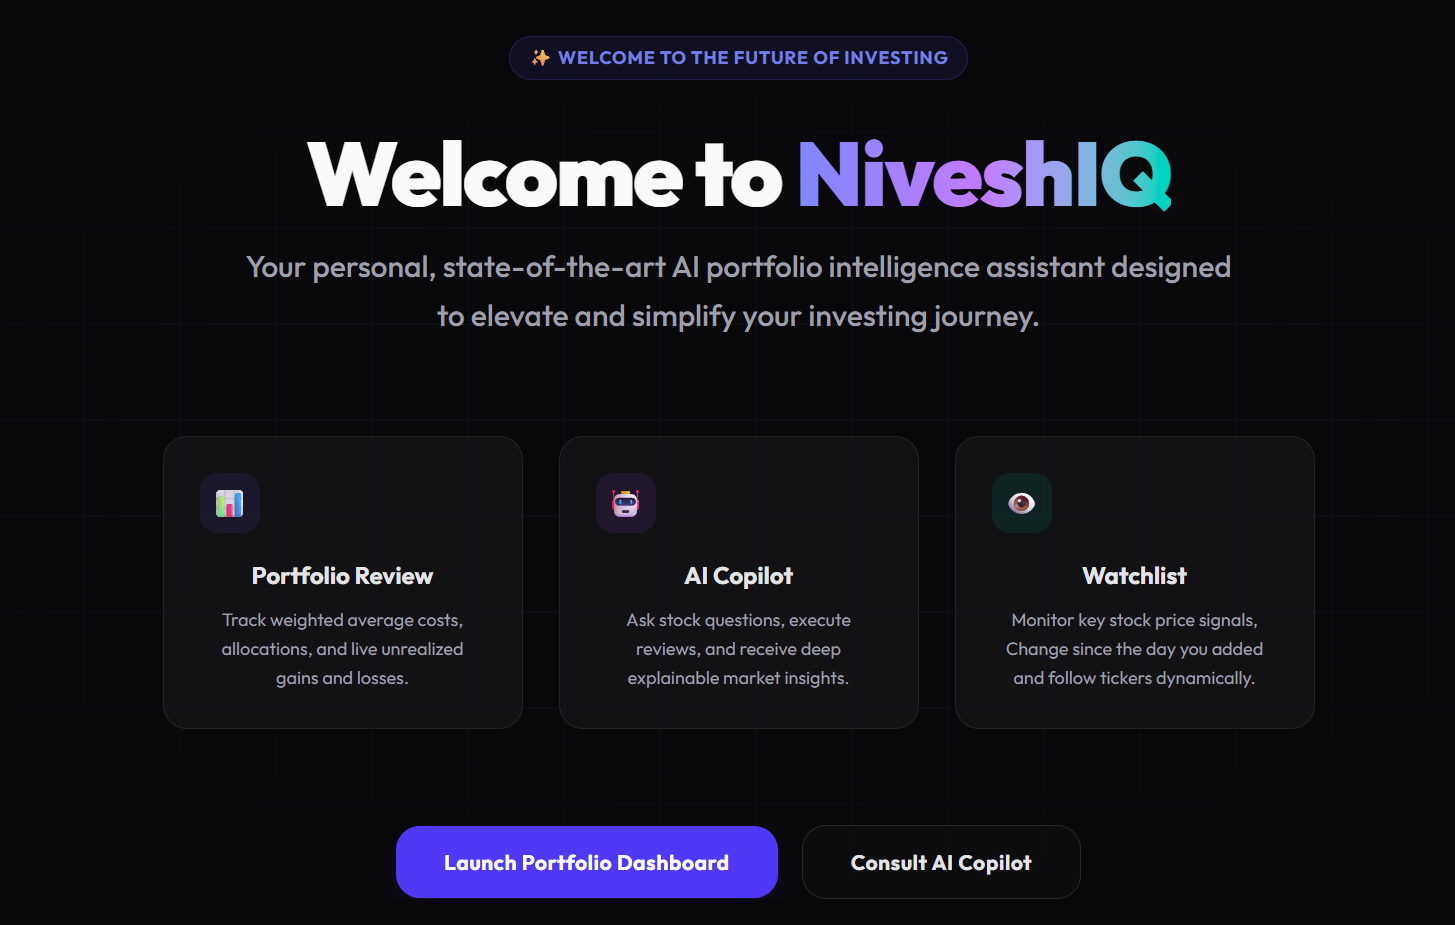
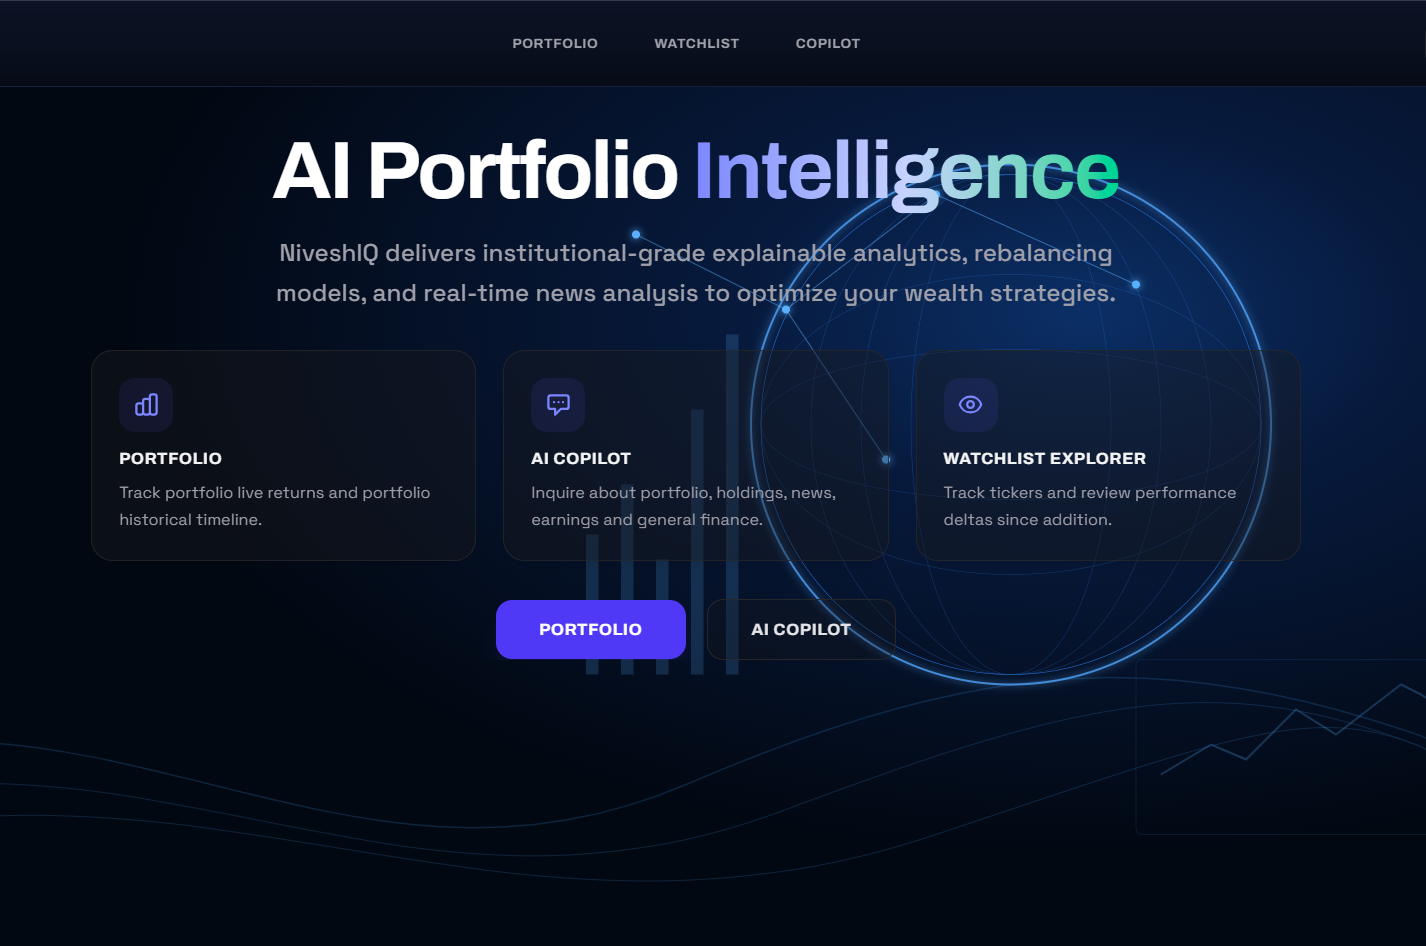
added profile pic and tags

diff --git a/style.css b/style.css
@@ -958,6 +958,51 @@ body.dark-mode .theme-toggle .moon-icon {
   margin: 0;
 }
 
+/* Pill-shaped glossy tags for project cards */
+.project-tags {
+  display: flex;
+  flex-wrap: wrap;
+  gap: 6px;
+  margin-top: 8px;
+}
+
+.project-tag {
+  font-family: var(--font-body);
+  font-size: 0.72rem;
+  font-weight: 600;
+  letter-spacing: 0.03em;
+  padding: 4px 12px;
+  border-radius: var(--radius-full);
+  background: linear-gradient(135deg, rgba(var(--color-accent-rgb), 0.1), rgba(var(--color-accent-rgb), 0.04));
+  border: 1px solid rgba(var(--color-accent-rgb), 0.18);
+  color: var(--color-accent);
+  transition: all var(--transition-fast);
+  position: relative;
+  overflow: hidden;
+}
+
+.project-tag::before {
+  content: '';
+  position: absolute;
+  top: 0;
+  left: 0;
+  right: 0;
+  height: 50%;
+  background: linear-gradient(180deg, rgba(255, 255, 255, 0.3), transparent);
+  pointer-events: none;
+  border-radius: var(--radius-full) var(--radius-full) 0 0;
+}
+
+body.dark-mode .project-tag::before {
+  background: linear-gradient(180deg, rgba(255, 255, 255, 0.06), transparent);
+}
+
+.project-tag:hover {
+  background: linear-gradient(135deg, rgba(var(--color-accent-rgb), 0.18), rgba(var(--color-accent-rgb), 0.08));
+  border-color: rgba(var(--color-accent-rgb), 0.35);
+  transform: translateY(-1px);
+}
+
 /* 
 ================================================================================
   ABOUT / PHILOSOPHY & EXPERTISE / SKILLS GRID
@@ -969,11 +1014,50 @@ body.dark-mode .theme-toggle .moon-icon {
   grid-template-columns: 0.9fr 1.1fr;
   gap: var(--space-3xl);
   align-items: flex-start;
+  margin-top: var(--space-xl);
 }
 
 .about-bio-column {
-  position: sticky;
-  top: 120px;
+  display: flex;
+  flex-direction: column;
+  justify-content: center;
+}
+
+.about-image-column {
+  display: flex;
+  align-items: center;
+  justify-content: center;
+}
+
+.profile-image-wrapper {
+  width: 100%;
+  max-width: 320px;
+  aspect-ratio: 1;
+  border-radius: var(--radius-xl);
+  background: var(--color-card-bg);
+  border: 1px solid var(--color-border);
+  display: flex;
+  align-items: center;
+  justify-content: center;
+  overflow: hidden;
+  transition: transform var(--transition-normal), box-shadow var(--transition-normal);
+}
+
+.profile-image-wrapper:hover {
+  transform: scale(1.02) translateZ(0);
+  box-shadow: var(--shadow-neumorphic-hover);
+}
+
+.profile-image {
+  width: 100%;
+  height: 100%;
+  object-fit: cover;
+  border-radius: var(--radius-xl);
+  transition: transform var(--transition-slow);
+}
+
+.profile-image-wrapper:hover .profile-image {
+  transform: scale(1.05);
 }
 
 .bio-content p {

diff --git a/index.html b/index.html
@@ -522,15 +522,26 @@
 
     <!-- About Section -->
     <section id="about" class="about-section section" aria-labelledby="about-title">
-      <div class="container" style="max-width: 800px; margin: 0 auto; text-align: center;">
+      <div class="container">
         <h2 id="about-title" class="section-title">ABOUT ME</h2>
-        <div class="bio-content" style="text-align: left; margin-top: var(--space-md);">
-          <p>
-            I'm a   undergrad at IIT Gandhinagar with a deep interest in building systems at the intersection of AI and software engineering. I think in pipelines — how data flows, how agents reason, and how backends scale. My work spans Generative AI, agentic architectures, and API design.
-          </p>
-          <p style="margin-top: var(--space-md);">
-           I'm drawn to problems where language models meet real-world constraints: retrieval systems that actually retrieve, agents that actually act, and backends that don't fall over. I'm also actively exploring cloud engineering and how modern infrastructure enables AI products to go from prototype to production.
-          </p>
+        <div class="about-container">
+          <!-- Profile Image Column -->
+          <div class="about-image-column">
+            <div class="profile-image-wrapper neumorphic-outset">
+              <img src="images/profile_pic.png" alt="Piyush Keshri - Portrait" class="profile-image" loading="lazy">
+            </div>
+          </div>
+          <!-- Bio Content Column -->
+          <div class="about-bio-column">
+            <div class="bio-content">
+              <p>
+                I'm a   undergrad at IIT Gandhinagar with a deep interest in building systems at the intersection of AI and software engineering. I think in pipelines — how data flows, how agents reason, and how backends scale. My work spans Generative AI, agentic architectures, and API design.
+              </p>
+              <p>
+               I'm drawn to problems where language models meet real-world constraints: retrieval systems that actually retrieve, agents that actually act, and backends that don't fall over. I'm also actively exploring cloud engineering and how modern infrastructure enables AI products to go from prototype to production.
+              </p>
+            </div>
+          </div>
         </div>
       </div>
     </section>
@@ -573,7 +584,7 @@
         <div id="project-grid" class="project-grid" role="region" aria-live="polite">
           
           <!-- Project 1: Nivesh IQ — AI-Powered Investment Assistant-->
-          <article class="project-card neumorphic-outset" data-category="Gen AI" data-title="Nivesh IQ " data-desc="Nivesh IQ is an AI-powered platform that helps users make sense of their investments. It combines financial data processing with an intelligent conversational layer — giving users portfolio insights, analysis, and recommendations through a natural language interface. Built with a FastAPI backend, LangChain agent pipeline, and a React frontend." data-image="images/project_NiveshIQ.png" data-github="https://github.com/piyushkeshri8912/nivesh-iq" data-app="#">
+          <article class="project-card neumorphic-outset" data-category="Gen AI" data-title="Nivesh IQ " data-desc="Nivesh IQ is an AI-powered platform that helps users make sense of their investments. It combines financial data processing with an intelligent conversational layer — giving users portfolio insights, analysis, and recommendations through a natural language interface. Built with a FastAPI backend, LangChain agent pipeline, and a React frontend." data-image="images/project_NiveshIQ.png" data-github="https://github.com/piyushkeshri8912/nivesh-iq" data-app="https://nivesh-iq-portfolio-intellegence.vercel.app/" data-tags="Gen AI, FinTech, LangChain, FastAPI, Cloud Run">
             <div class="project-image-wrapper">
               <img src="images/project_NiveshIQ.png" alt="Nivesh IQ — AI-Powered Investment Assistant" class="project-image" loading="lazy">
               <div class="project-hover-overlay">
@@ -592,7 +603,7 @@
           </article>
 
           <!-- Project 2: GN Saarthi — Campus AI Assistant -->
-          <article class="project-card neumorphic-outset" data-category="Gen AI" data-title="GN Saarthi — Campus AI Assistant" data-desc="A RAG-powered conversational assistant built specifically for college students navigating campus life. Semantically retrieves context from indexed institutional documents, then reasons over them with an LLM to give grounded, useful answers. Designed to feel less like a search engine, more like a knowledgeable senior." data-image="images/project_GnSaarthi.png" data-github="https://github.com/piyushkeshri8912/GN-Saarthi" data-app="https://gn-saarthi.vercel.app/">
+          <article class="project-card neumorphic-outset" data-category="Gen AI" data-title="GN Saarthi — Campus AI Assistant" data-desc="A RAG-powered conversational assistant built specifically for college students navigating campus life. Semantically retrieves context from indexed institutional documents, then reasons over them with an LLM to give grounded, useful answers. Designed to feel less like a search engine, more like a knowledgeable senior." data-image="images/project_GnSaarthi.png" data-github="https://github.com/piyushkeshri8912/GN-Saarthi" data-app="https://gn-saarthi.vercel.app/" data-tags="Gen AI, RAG, LangChain, FastAPI, RAG Architecture">
             <div class="project-image-wrapper">
               <img src="images/project_GnSaarthi.png" alt="GN Saarthi — Campus AI Assistant" class="project-image" loading="lazy">
               <div class="project-hover-overlay">
@@ -663,6 +674,7 @@
             </div>
             <ul class="skills-list">
               <li class="skill-badge">FastAPI</li>
+              <li class="skill-badge">SQLAlchemy</li>
               <li class="skill-badge">Docker</li>
               <li class="skill-badge">Redis</li>
               <li class="skill-badge">PostgreSQL & Vector Databases</li>
@@ -789,6 +801,7 @@
               </a>
             </div>
           </div>
+          <div id="modal-tags" class="project-tags" style="margin-top: var(--space-md);"></div>
           <p id="modal-desc" class="modal-desc" style="margin-top: var(--space-sm);">Project details and architectural approach.</p>
         </div>
       </div>

diff --git a/app.js b/app.js
@@ -109,6 +109,7 @@ function initLightbox() {
   const modalDesc = document.getElementById('modal-desc');
   const modalGithubLink = document.getElementById('modal-github-link');
   const modalAppLink = document.getElementById('modal-app-link');
+  const modalTags = document.getElementById('modal-tags');
 
   let triggerElement = null; // Store element that opened modal to restore focus later
 
@@ -130,6 +131,20 @@ function initLightbox() {
 
     if (modalGithubLink) modalGithubLink.setAttribute('href', githubUrl);
     if (modalAppLink) modalAppLink.setAttribute('href', appUrl);
+
+    // Populate tags
+    if (modalTags) {
+      const tagsStr = card.getAttribute('data-tags');
+      modalTags.innerHTML = '';
+      if (tagsStr) {
+        tagsStr.split(',').forEach(tag => {
+          const tagEl = document.createElement('span');
+          tagEl.className = 'project-tag';
+          tagEl.textContent = tag.trim();
+          modalTags.appendChild(tagEl);
+        });
+      }
+    }
 
     // Show Lightbox
     lightbox.classList.remove('hidden');